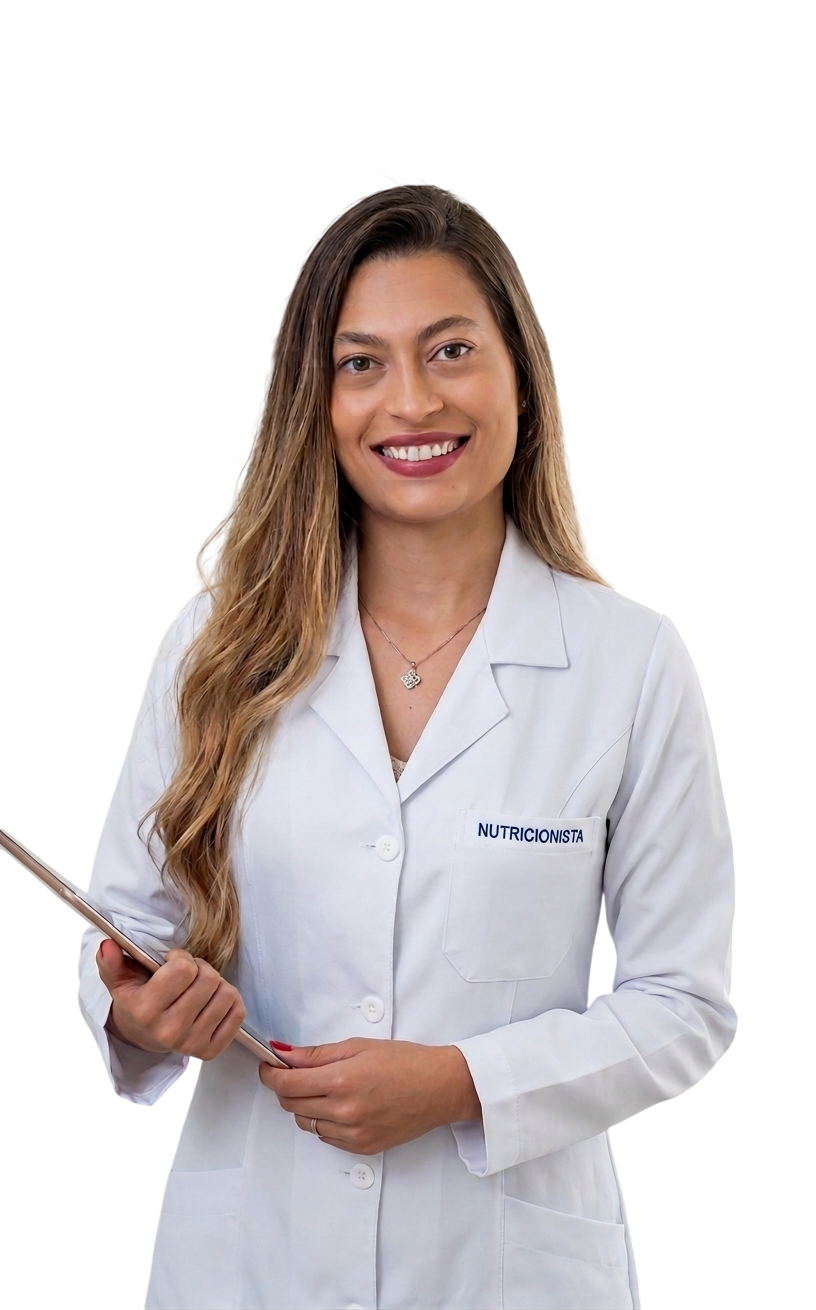
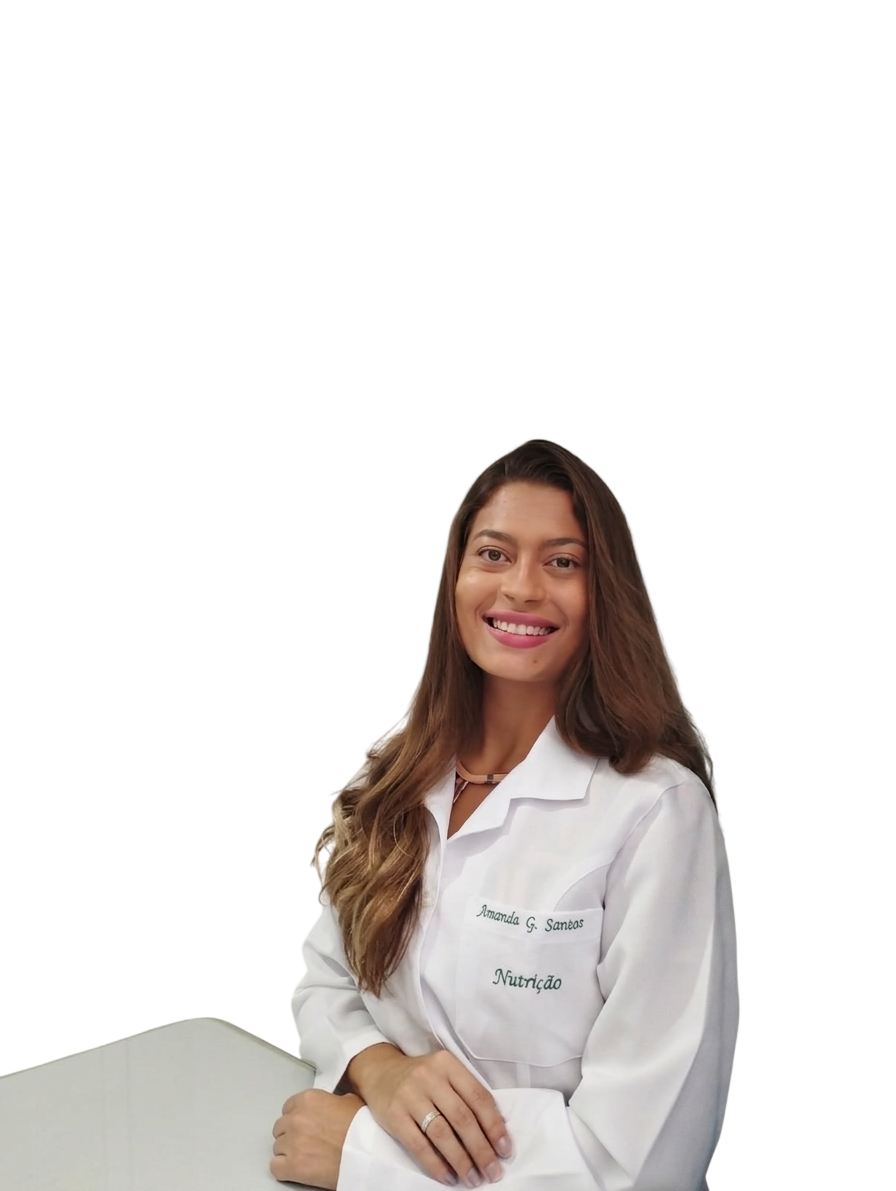
css-imgInsta-imgWhats

diff --git a/src/pages/Especialidades/Especialidades.js b/src/pages/Especialidades/Especialidades.js
@@ -3,31 +3,45 @@ import './Especialidades.css';
 
 const Especialidades = () => {
   return (
+    
     <div className="especialidades-container">
       <h2>Especialidades</h2>
-      
       <div className="nav-grid">
-        {/* Nav 1: Dieta */}
+         {/* Nav 1: DCNTs */}
         <nav className="especialidade-card">
-          <img src="https://images.unsplash.com/photo-1490645935967-10de6ba17061?w=300" alt="Dieta Personalizada" />
-          <h3>Planejamento de Dieta</h3>
-          <p>Planos alimentares totalmente individualizados baseados na sua rotina, preferências e exames bioquímicos.</p>
+          <img src="https://encrypted-tbn0.gstatic.com/images?q=tbn:ANd9GcRuJyOK7AK3m2jKRq5Igdd0A2yUdCY1FCdvvA&s" alt="Treino de Academia" />
+          <h3>Nutrição DCNTs</h3>
+          <p>Controle de regulação metabólica para pessoas diabéticas, 
+            com hipertensão, obesidade, 
+            doenças cardiovasculares e câncer.
+          </p>
         </nav>
-
-        {/* Nav 2: Alimentação Saudável */}
+        {/* Nav 2: Dieta */}
         <nav className="especialidade-card">
-          <img src="https://images.unsplash.com/photo-1512621776951-a57141f2eefd?w=300" alt="Alimentação Saudável" />
-          <h3>Alimentação Saudável</h3>
-          <p>Foco em reeducação alimentar duradoura para melhora de exames, longevidade, disposição e bem-estar geral asdasdasdasdsa asdasdasdas.</p>
+          <img src="https://www.diananutricionista.com.br/wp-content/uploads/2022/09/Nutricao-Comportamental-Conheca-os-Seus-Beneficios.jpg" alt="Dieta Personalizada" />
+          <h3>Dieta Comportamental</h3>
+          <p>Reeducação alimentar, ajuda a diferenciar a fome física da fome emocional, 
+            comer por estresse, ansiedade ou tristeza.
+          </p>
         </nav>
-
-        {/* Nav 3: Treino de Academia */}
+        {/* Nav 3: Alimentação Saudável */}
         <nav className="especialidade-card">
-          <img src="https://images.unsplash.com/photo-1517838277536-f5f99be501cd?w=300" alt="Treino de Academia" />
-          <h3>Nutrição Esportiva (Treino)</h3>
-          <p>Estratégias de suplementação e alimentação focadas em hipertrofia, emagrecimento e ganho de rendimento na academia.</p>
+          <img src="https://jpimg.com.br/uploads/2022/11/dieta-pode-ser-benefica-ou-prejudicial-para-o-emagrecimento.jpg" alt="Alimentação Saudável" />
+          <h3>Dieta Emagrecimento</h3>
+          <p>Emagrecimento saudável e sustentável, 
+            focado em gastar mais calorias do que se consome, 
+            aliado à escolha de alimentos saudáveis.
+          </p>
         </nav>
-      </div>
+        {/* Nav 4: Treino de Academia */}
+        <nav className="especialidade-card">
+          <img src="https://vitat.com.br/wp-content/uploads/2023/02/cropped-hipertrofia-e-definicao.jpg" alt="Treino de Academia" />
+          <h3>Hipertrofia e Definição</h3>
+          <p>Ganho de massa muscular, 
+            consumir cerca de 300 a 500 calorias a mais do que você gasta por dia.
+          </p>
+        </nav>
+        </div>
     </div>
   );
 };

diff --git a/src/pages/Home/Home.css b/src/pages/Home/Home.css
@@ -4,25 +4,25 @@
   align-items: center;         /* Centraliza o texto e a foto verticalmente na tela */
   justify-content: space-between; /* Empurra o texto para a esquerda e a foto para a direita */
   width: 100%;
-  max-width: 1000px;           /* Limita a largura máxima para telas muito grandes não espalharem demais */
+  max-width: 1200px;           /* Limita a largura máxima para telas muito grandes não espalharem demais */
   margin: 0 auto;              /* Centraliza o wrapper principal na tela */
   padding: 0 3em;              /* Dá um espaçamento nas laterais para não grudar nos cantos */
-  gap: 40px;                   /* Cria um espaço seguro entre o card de texto e a foto */
+  gap: 20px;                   /* Cria um espaço seguro entre o card de texto e a foto */
 }
 
-/* Coluna da Esquerda - Ajustada para alinhar o texto à esquerda */
 .home-container {
-  text-align: left;            /* Mudamos de center para left para combinar com o novo layout */
-  flex: 1;                     /* Faz o container crescer proporcionalmente */
-  max-width: 600px;            /* Ajustado o tamanho para dar espaço para a foto grande */
-  padding: 50px;
+  text-align: left;            
+  width: 100%;
+  max-width: 500px;            
+  padding: 40px;                 /* Reduzi um pouco o padding interno */
   background: rgba(255, 255, 255, 0.2);
   border-radius: 15px;
   backdrop-filter: blur(5px);
+  margin-bottom: 80px; 
 }
 
 .home-container h1 {
-  font-size: 2rem;           /* Reduzido sutilmente para encaixar melhor em duas colunas */
+  font-size: 2rem;          
   margin-bottom: 20px;
   color: #164032;
 }
@@ -30,21 +30,24 @@
 .home-container p {
   font-size: 1.2rem;
   line-height: 1.6;
-  color: #164032;              /* Adicionado a cor do seu tema para harmonizar */
+  color: #164032;             
 }
 
-/* Coluna da Direita - Container da Imagem */
 .home-image-container {
-  flex: 1;
+  flex: 1;                       
   display: flex;
-  justify-content: center;     /* Centraliza a imagem dentro do espaço dela */
+  align-items: flex-end;       
+  justify-content: flex-end;    
 }
 
-/* Estilização da Foto */
-.home-profile-img {
-  width: 100%;
-  max-width: 260px;            
-  height: auto;                
-  object-fit: cover;
 
+.home-profile-img {
+  display: block;
+  width: auto;
+  max-width: 400px;
+  max-height: 70vh;
+  height: auto;
+  position: relative; 
+  z-index: 10; /* Garante que a foto fique na camada da frente */
+  margin-bottom: -20px;
 }

diff --git a/src/pages/Especialidades/Especialidades.css b/src/pages/Especialidades/Especialidades.css
@@ -1,25 +1,37 @@
 .especialidades-container {
   width: 100%;
-  max-width: 1200px;
+  max-width: 1300px;
+  margin: 0 auto;
   text-align: center;
+  padding: 20px auto;
 }
 
+
 .especialidades-container h2 {
-  font-size: 1.8rem;
+  font-size: 1.5rem;
   text-transform: uppercase;
   margin-bottom: 20px;
   color: #164032;
 }
 
-.nav-grid {
+/* .nav-grid {
   display: grid;
   grid-template-columns: repeat(auto-fit, minmax(300px, 1fr));
   gap: 30px;
+} */
+
+.nav-grid {
+  width: 100%;
+  max-width: 1300px;
+  display: grid;
+  /* Força o grid a ter exatamente duas colunas de tamanhos iguais (1fr cada) */
+  grid-template-columns: repeat(4, 1fr); 
+  gap: 20px;
 }
 
 .especialidade-card {
   background: rgba(255, 255, 255, 0.3);
-  padding: 25px;
+  padding: 20px;
   border-radius: 15px;
   backdrop-filter: blur(5px);
   box-shadow: 0 4px 10px rgba(0,0,0,0.05);
@@ -29,9 +41,10 @@
   transition: transform 0.3s ease;
 }
 
-/* .especialidade-card:hover {
+.especialidade-card:hover {
   transform: translateY(-5px);
-} */
+  cursor: pointer;
+}
 
 .especialidade-card img {
   width: 90%;
@@ -52,4 +65,15 @@
   margin-top: 10px;
   font-size: 1rem;
   line-height: 1.5;
+}
+
+
+
+
+/* Quando a tela for menor que 768px (tamanho padrão de celular/tablet) */
+@media (max-width: 768px) {
+  .nav-grid {
+    grid-template-columns: 1fr; /* Volta para 1 coluna só */
+    gap: 20px;
+  }
 }

diff --git a/src/components/Navbar.js b/src/components/Navbar.js
@@ -1,13 +1,24 @@
-import { NavLink } from 'react-router-dom';
+import { Link, NavLink } from 'react-router-dom';
+
+import instragramIcon from '../assets/instagram.png';
+import whatsappIcon from '../assets/whatsapp.png';
 
 import './Navbar.css';
 
 const Navbar = () => {
   return (
   <nav className="navbar">
-    <NavLink to="/" className="brand">
+    <NavLink to="/contato" className="brand">
     AMANDA <span>Santos</span>
     </NavLink>
+    <div className="rede-social">
+      <a href="https://www.instagram.com/amanda.santos.nutri/" target="_blank" rel="noreferrer">
+        <img src={instragramIcon} alt="Instagram" />
+      </a>
+      <a href="https://wa.me/5518997958843" target="_blank" rel="noreferrer">
+        <img src={whatsappIcon} alt="WhatsApp" />
+      </a>
+    </div>
     <ul className="links_list">
       <li>
         <NavLink to="/" className={({ isActive }) => (isActive ? 'active' : '')}>

diff --git a/src/pages/Contatos/Contato.js b/src/pages/Contatos/Contato.js
@@ -10,14 +10,14 @@ const Contato = () => {
         <img className="contato-foto" src={amandaConversa} alt="Atendimento Nutricional" />
         
         {/* Link Âncora para o WhatsApp */}
-        <a href="https://wa.me/5518999999999" target="_blank" rel="noopener noreferrer" className="whatsapp-btn">
+        <a href="https://wa.me/5518997958843" target="_blank" rel="noopener noreferrer" className="whatsapp-btn">
           WhatsApp
         </a>
       </div>
 
       {/* Nav de Mensagem com o Formulário */}
       <nav className="contato-form-nav">
-        <h3>Mande sua mensagem</h3>
+        <h3>Vamos Conversar?</h3>
         <form onSubmit={(e) => e.preventDefault()}>
           <div className="form-group">
             <label>Nome:</label>

diff --git a/src/components/Navbar.css b/src/components/Navbar.css
@@ -52,6 +52,10 @@
   padding: 1.5em 3em;
 }
 
+.navbar img {
+  width: 40px;
+}
+
 .brand {
   font-size: 1.3em;
   color: #164032;
@@ -62,6 +66,15 @@
 .brand span {
   font-weight: 400;
   text-transform: uppercase;
+}
+
+.rede-social{
+  cursor: pointer;
+  display: flex;
+  align-items: center;
+  margin-right: auto;  /* Empurra a lista de links (Home, Sobre) para a direita */
+  margin-left: 3em;    /* Cria um espacinho perfeito entre o nome Amanda e o Ícone */
+  gap: 1.5em;             /* Cria um espaço entre os ícones do Instagram e WhatsApp */
 }
 
 .links_list {

diff --git a/src/pages/SobreMin/SobreMin.css b/src/pages/SobreMin/SobreMin.css
@@ -2,12 +2,16 @@
   width: 100%;
   display: flex;
   gap: 40px;
-  max-width: 1000px;
+  max-width: 940px;
   background: rgba(255, 255, 255, 0.25);
-  padding: 10px;
   border-radius: 15px;
   backdrop-filter: blur(5px);
   align-items: center;
+}
+
+.sobre-foto {
+  display: flex;
+  align-items: flex-end; /* Força a foto a encostar na base do card */
 }
 
 .sobre-foto img {
@@ -20,7 +24,6 @@
 }
 
 .sobre-credenciais {
-  margin-top: -0.5em;
   display: flex;
   flex-direction: column;
   gap: 6px;

diff --git a/src/pages/Contatos/Contato.css b/src/pages/Contatos/Contato.css
@@ -45,8 +45,8 @@
 }
 
 .whatsapp-btn:hover {
-  background-color: #164032;
-    color:#FFF;
+  background-color: #399261;
+  color:#FFF;
 }
 
 .contato-form-nav {
@@ -121,6 +121,6 @@
 }
 
 .envio-btn:hover {
-  background-color: #164032;
+  background-color: #399261;
   color:#FFF
 }

diff --git a/src/pages/Home/Home.js b/src/pages/Home/Home.js
@@ -1,6 +1,6 @@
 import React from 'react';
 import './Home.css';
-import fotoNutri from "../../assets/jaleco.png";
+import fotoNutri from "../../assets/home.png";
 
 const Home = () => {
   return (
